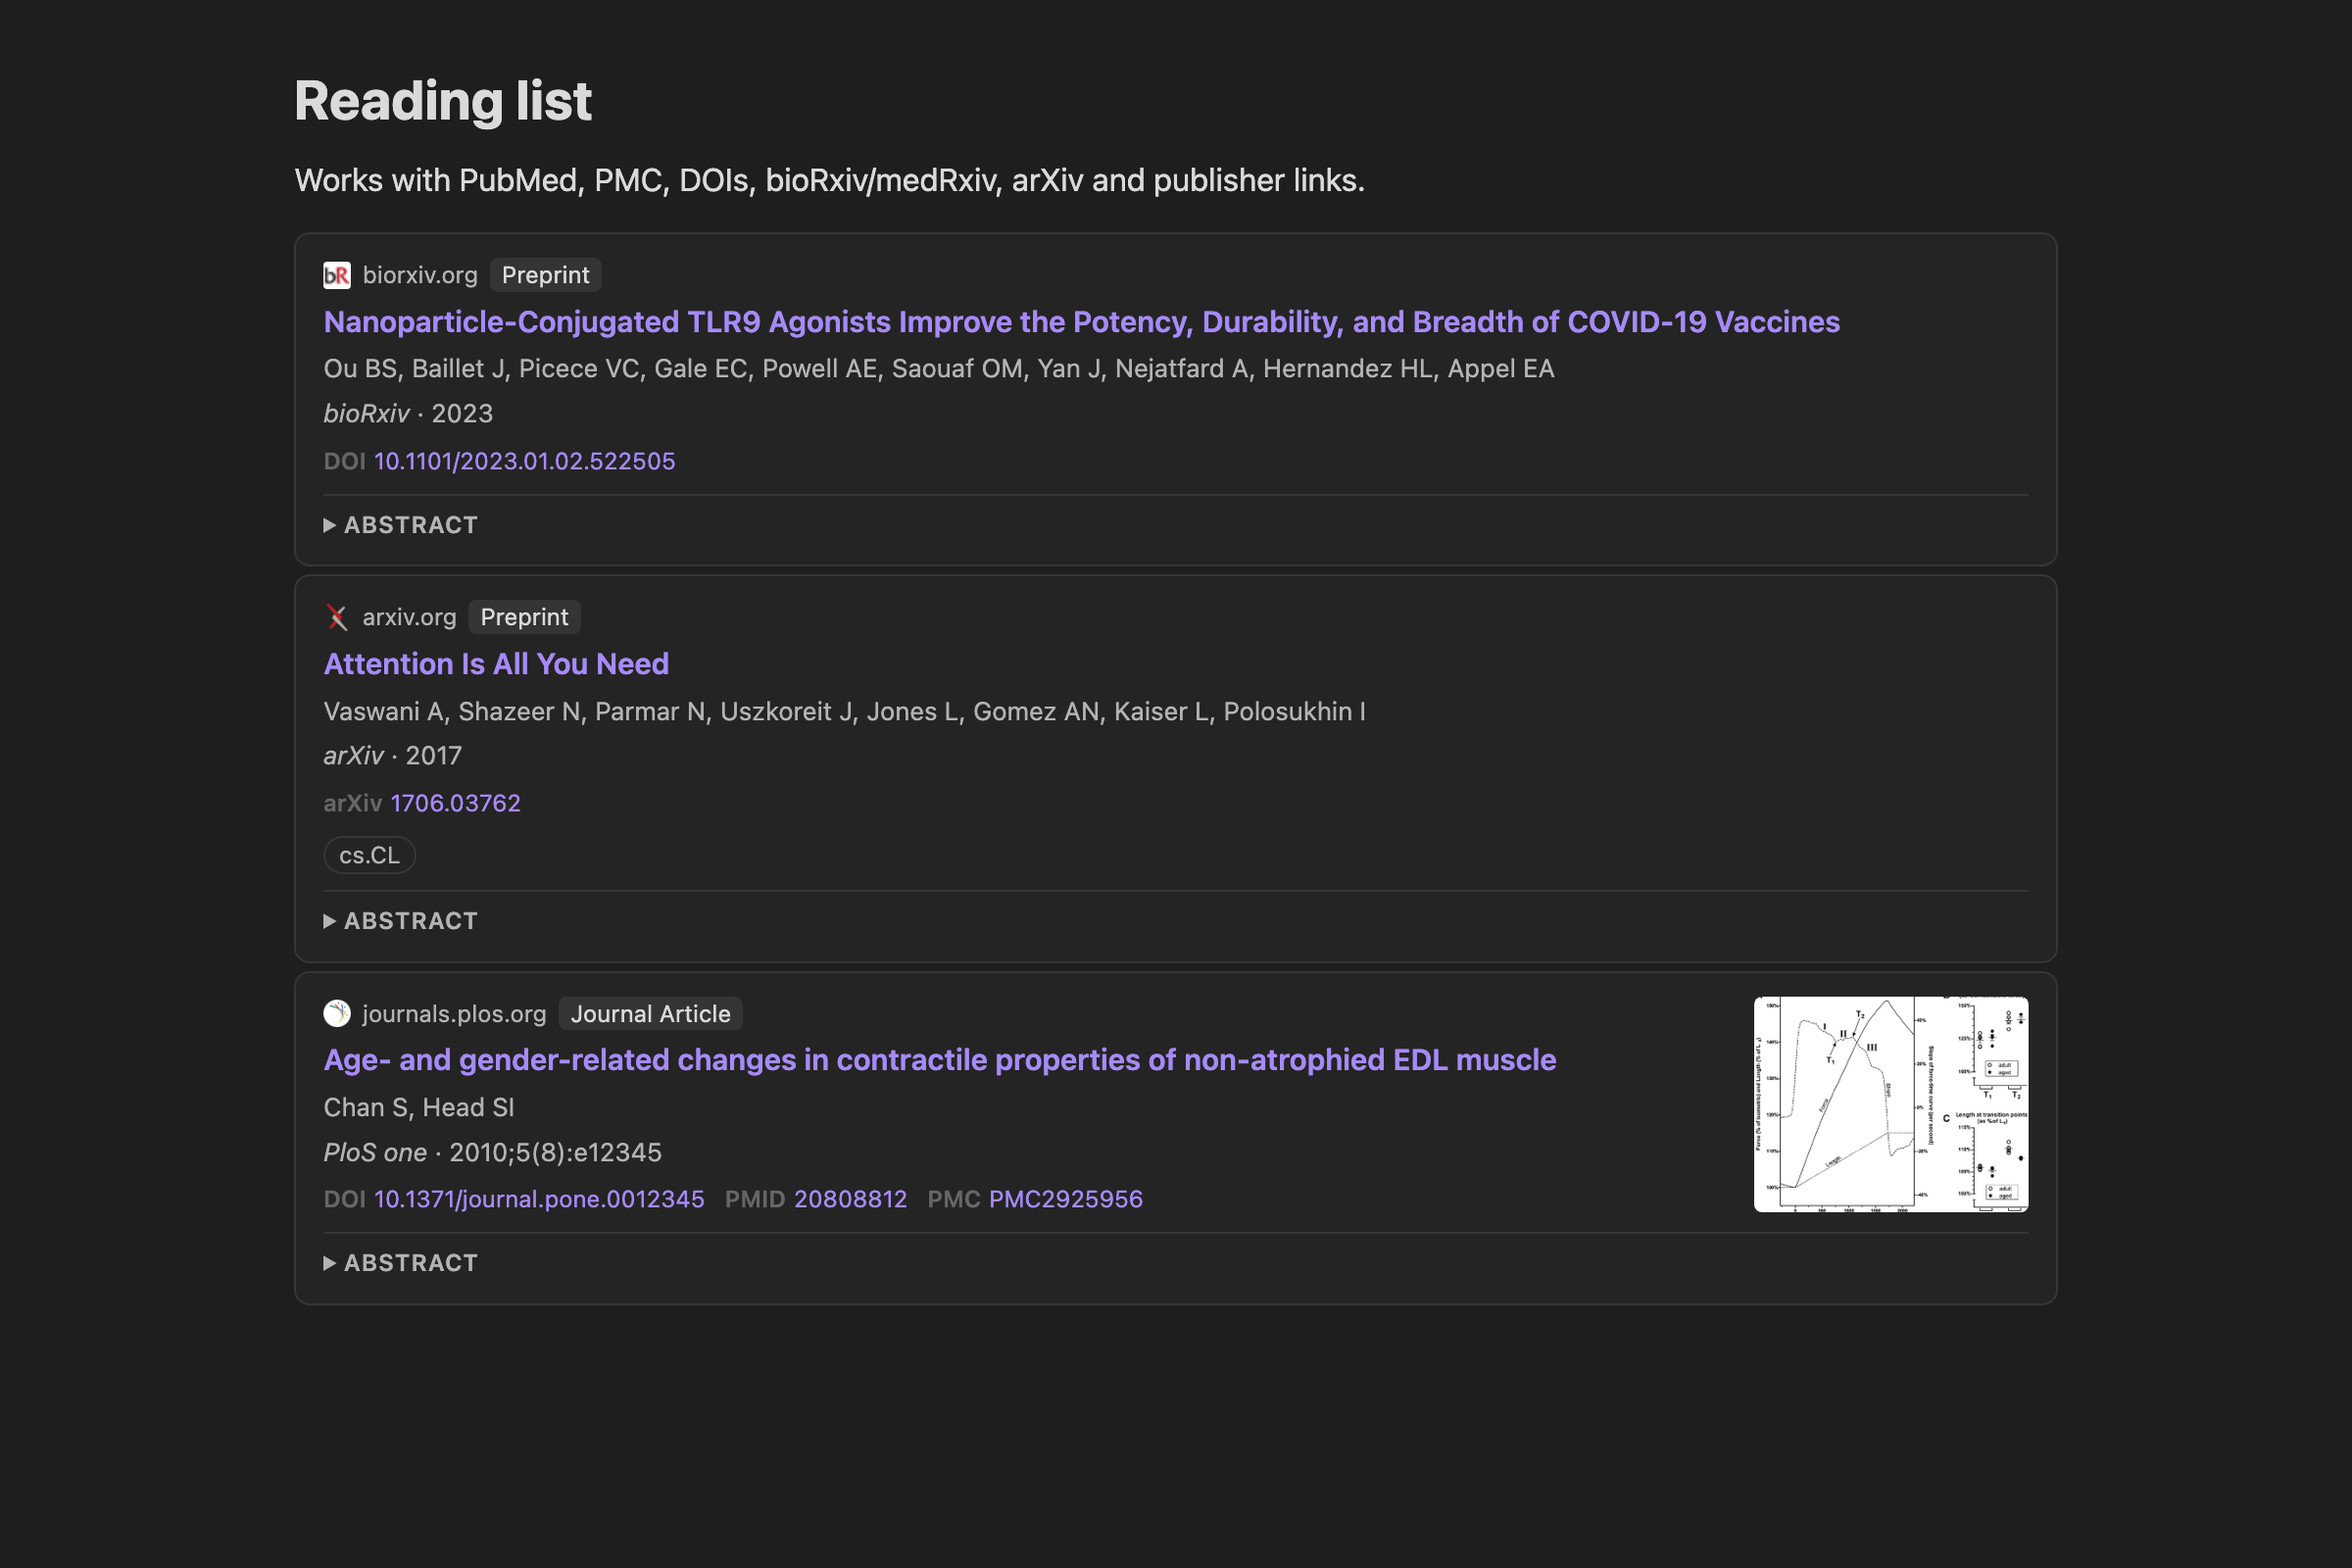
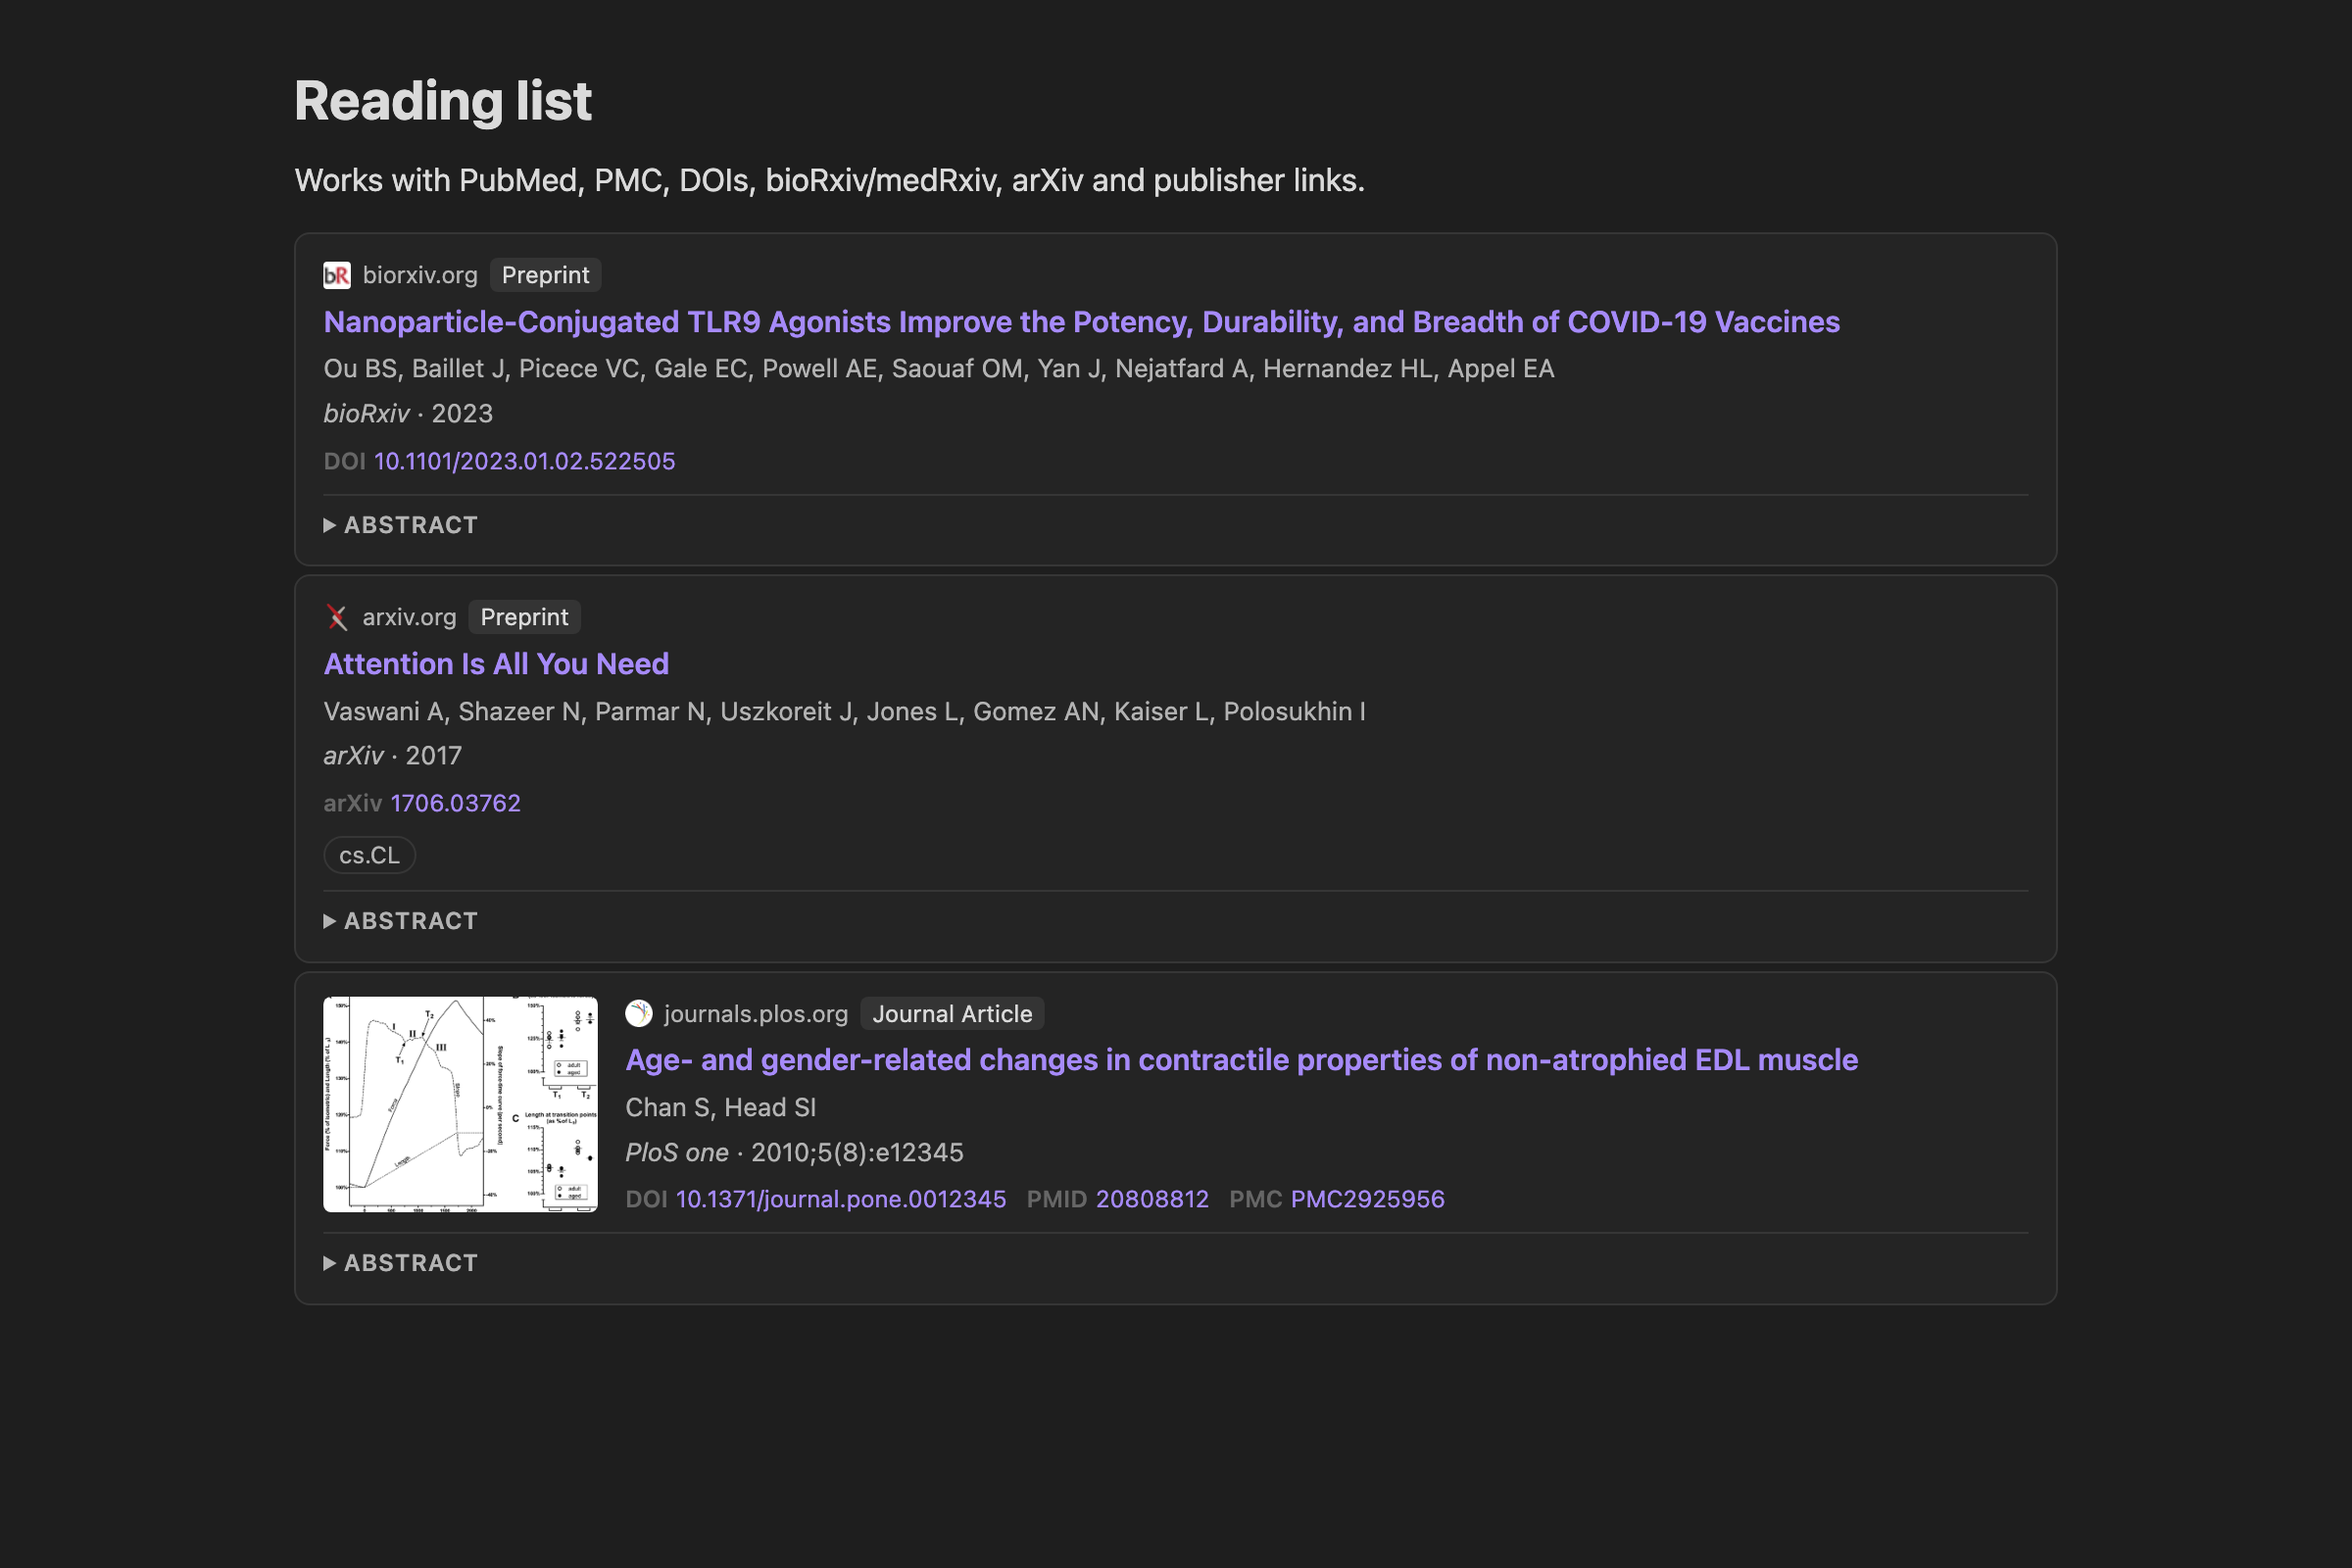
Show the preview image on the left of the card
Regenerate README screenshots, paste GIFs and listing screenshots, and
mention the image placement in the README. Bump to 1.2.3.

Changed region(s): [[0.125, 0.625, 0.875, 0.7812]]

diff --git a/styles.css b/styles.css
@@ -95,6 +95,7 @@ a.scientific-article-card-title:hover {
 }
 
 .scientific-article-card-thumb {
+	order: -1; /* image on the left of the text */
 	flex: 0 0 auto;
 	width: 140px;
 	max-height: 110px;
@@ -163,7 +164,7 @@ a.scientific-article-card-title:hover {
 	font-size: var(--font-ui-smaller);
 }
 
-/* The image always stays on the right; on narrow cards (phone, sidebar) it just gets smaller. */
+/* The image always stays on the left; on narrow cards (phone, sidebar) it just gets smaller. */
 @container scientific-article-card (max-width: 520px) {
 	.scientific-article-card-main {
 		gap: 10px;

diff --git a/README.md b/README.md
@@ -38,7 +38,7 @@ abstract: "Proteins are essential to life, and understanding their structure can
 ```
 ````
 
-The block is rendered as a card with the site icon, publication type, linked title, authors, citation, clickable DOI / PMID / PMC / arXiv links, keyword chips and a collapsible abstract (structured abstracts keep their *Background / Methods / Results* sections). Because it is plain YAML, you can edit any field by hand.
+The block is rendered as a card with a preview image on the left (the article's first figure when available), the site icon, publication type, linked title, authors, citation, clickable DOI / PMID / PMC / arXiv links, keyword chips and a collapsible abstract (structured abstracts keep their *Background / Methods / Results* sections). Because it is plain YAML, you can edit any field by hand.
 
 ## 🔎 Supported inputs
 
